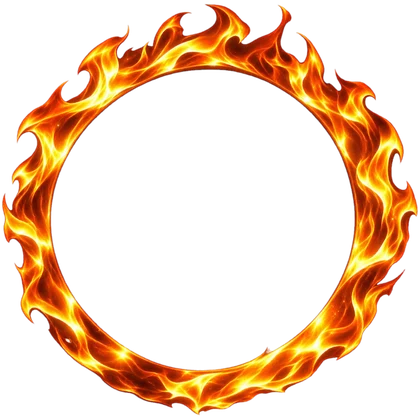
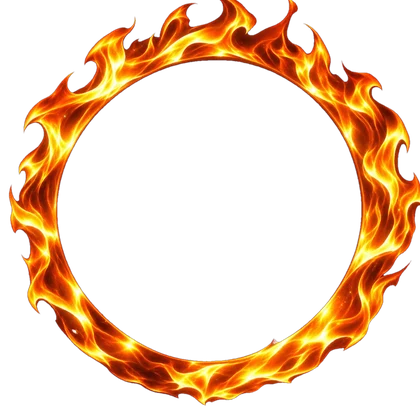
v2.60 : cadres recentrés sur la photo, écussons de division alignés
Claude-Session: https://claude.ai/code/session_01DGEPALM2CzaS6kV533j6gc

Changed region(s): [[0.0, 0.0, 1.0, 0.9905]]

diff --git a/app.css b/app.css
@@ -961,18 +961,18 @@ a.btn{text-decoration:none;display:flex;align-items:center;justify-content:cente
 .mcard.mt-legende:not(.bnr){background:linear-gradient(90deg,#0000004d,#0000 75%),url(card-legende.webp?v=1) center 35%/cover!important}.mcard.mt-legende:not(.bnr) .hfx{opacity:.35}
 
 /* cadres dessinés (images) : le trou du cadre épouse la photo */
-.fr-f1{box-shadow:none!important;animation:none!important;overflow:visible!important}.fr-f1,.fr-f1 img{border-radius:50%!important}.fr-f1::after{content:"";position:absolute;inset:-15.92%;z-index:2;pointer-events:none;background:url(fr/f1.webp?v=1) center/100% 100% no-repeat}
-.fr-f2{box-shadow:none!important;animation:none!important;overflow:visible!important}.fr-f2,.fr-f2 img{border-radius:50%!important}.fr-f2::after{content:"";position:absolute;inset:-16.23%;z-index:2;pointer-events:none;background:url(fr/f2.webp?v=1) center/100% 100% no-repeat}
-.fr-f3{box-shadow:none!important;animation:none!important;overflow:visible!important}.fr-f3,.fr-f3 img{border-radius:50%!important}.fr-f3::after{content:"";position:absolute;inset:-13.61%;z-index:2;pointer-events:none;background:url(fr/f3.webp?v=1) center/100% 100% no-repeat}
-.fr-f4{box-shadow:none!important;animation:none!important;overflow:visible!important}.fr-f4,.fr-f4 img{border-radius:50%!important}.fr-f4::after{content:"";position:absolute;inset:-15.09%;z-index:2;pointer-events:none;background:url(fr/f4.webp?v=1) center/100% 100% no-repeat}
-.fr-f5{box-shadow:none!important;animation:none!important;overflow:visible!important}.fr-f5,.fr-f5 img{border-radius:50%!important}.fr-f5::after{content:"";position:absolute;inset:-22.27%;z-index:2;pointer-events:none;background:url(fr/f5.webp?v=1) center/100% 100% no-repeat}
-.fr-f6{box-shadow:none!important;animation:none!important;overflow:visible!important}.fr-f6,.fr-f6 img{border-radius:50%!important}.fr-f6::after{content:"";position:absolute;inset:-17.1%;z-index:2;pointer-events:none;background:url(fr/f6.webp?v=1) center/100% 100% no-repeat}
-.fr-f7{box-shadow:none!important;animation:none!important;overflow:visible!important}.fr-f7,.fr-f7 img{border-radius:50%!important}.fr-f7::after{content:"";position:absolute;inset:-24.84%;z-index:2;pointer-events:none;background:url(fr/f7.webp?v=1) center/100% 100% no-repeat}
-.fr-f8{box-shadow:none!important;animation:none!important;overflow:visible!important}.fr-f8,.fr-f8 img{border-radius:50%!important}.fr-f8::after{content:"";position:absolute;inset:-19.65%;z-index:2;pointer-events:none;background:url(fr/f8.webp?v=1) center/100% 100% no-repeat}
-.fr-f9{box-shadow:none!important;animation:none!important;overflow:visible!important}.fr-f9,.fr-f9 img{border-radius:50%!important}.fr-f9::after{content:"";position:absolute;inset:-19.38%;z-index:2;pointer-events:none;background:url(fr/f9.webp?v=1) center/100% 100% no-repeat}
-.fr-f10{box-shadow:none!important;animation:none!important;overflow:visible!important}.fr-f10,.fr-f10 img{border-radius:50%!important}.fr-f10::after{content:"";position:absolute;inset:-16.45%;z-index:2;pointer-events:none;background:url(fr/f10.webp?v=1) center/100% 100% no-repeat}
-.fr-f11{box-shadow:none!important;animation:none!important;overflow:visible!important}.fr-f11,.fr-f11 img{border-radius:50%!important}.fr-f11::after{content:"";position:absolute;inset:-19.4%;z-index:2;pointer-events:none;background:url(fr/f11.webp?v=1) center/100% 100% no-repeat}
-.fr-f12{box-shadow:none!important;animation:none!important;overflow:visible!important}.fr-f12,.fr-f12 img{border-radius:50%!important}.fr-f12::after{content:"";position:absolute;inset:-22.49%;z-index:2;pointer-events:none;background:url(fr/f12.webp?v=1) center/100% 100% no-repeat}
+.fr-f1{box-shadow:none!important;animation:none!important;overflow:visible!important}.fr-f1,.fr-f1 img{border-radius:50%!important}.fr-f1::after{content:"";position:absolute;inset:-21.4%;z-index:2;pointer-events:none;background:url(fr/f1.webp?v=2) center/100% 100% no-repeat}
+.fr-f2{box-shadow:none!important;animation:none!important;overflow:visible!important}.fr-f2,.fr-f2 img{border-radius:50%!important}.fr-f2::after{content:"";position:absolute;inset:-21.4%;z-index:2;pointer-events:none;background:url(fr/f2.webp?v=2) center/100% 100% no-repeat}
+.fr-f3{box-shadow:none!important;animation:none!important;overflow:visible!important}.fr-f3,.fr-f3 img{border-radius:50%!important}.fr-f3::after{content:"";position:absolute;inset:-19.66%;z-index:2;pointer-events:none;background:url(fr/f3.webp?v=2) center/100% 100% no-repeat}
+.fr-f4{box-shadow:none!important;animation:none!important;overflow:visible!important}.fr-f4,.fr-f4 img{border-radius:50%!important}.fr-f4::after{content:"";position:absolute;inset:-20.52%;z-index:2;pointer-events:none;background:url(fr/f4.webp?v=2) center/100% 100% no-repeat}
+.fr-f5{box-shadow:none!important;animation:none!important;overflow:visible!important}.fr-f5,.fr-f5 img{border-radius:50%!important}.fr-f5::after{content:"";position:absolute;inset:-25.15%;z-index:2;pointer-events:none;background:url(fr/f5.webp?v=2) center/100% 100% no-repeat}
+.fr-f6{box-shadow:none!important;animation:none!important;overflow:visible!important}.fr-f6,.fr-f6 img{border-radius:50%!important}.fr-f6::after{content:"";position:absolute;inset:-22.91%;z-index:2;pointer-events:none;background:url(fr/f6.webp?v=2) center/100% 100% no-repeat}
+.fr-f7{box-shadow:none!important;animation:none!important;overflow:visible!important}.fr-f7,.fr-f7 img{border-radius:50%!important}.fr-f7::after{content:"";position:absolute;inset:-22.3%;z-index:2;pointer-events:none;background:url(fr/f7.webp?v=2) center/100% 100% no-repeat}
+.fr-f8{box-shadow:none!important;animation:none!important;overflow:visible!important}.fr-f8,.fr-f8 img{border-radius:50%!important}.fr-f8::after{content:"";position:absolute;inset:-23.86%;z-index:2;pointer-events:none;background:url(fr/f8.webp?v=2) center/100% 100% no-repeat}
+.fr-f9{box-shadow:none!important;animation:none!important;overflow:visible!important}.fr-f9,.fr-f9 img{border-radius:50%!important}.fr-f9::after{content:"";position:absolute;inset:-21.7%;z-index:2;pointer-events:none;background:url(fr/f9.webp?v=2) center/100% 100% no-repeat}
+.fr-f10{box-shadow:none!important;animation:none!important;overflow:visible!important}.fr-f10,.fr-f10 img{border-radius:50%!important}.fr-f10::after{content:"";position:absolute;inset:-22.0%;z-index:2;pointer-events:none;background:url(fr/f10.webp?v=2) center/100% 100% no-repeat}
+.fr-f11{box-shadow:none!important;animation:none!important;overflow:visible!important}.fr-f11,.fr-f11 img{border-radius:50%!important}.fr-f11::after{content:"";position:absolute;inset:-22.0%;z-index:2;pointer-events:none;background:url(fr/f11.webp?v=2) center/100% 100% no-repeat}
+.fr-f12{box-shadow:none!important;animation:none!important;overflow:visible!important}.fr-f12,.fr-f12 img{border-radius:50%!important}.fr-f12::after{content:"";position:absolute;inset:-22.91%;z-index:2;pointer-events:none;background:url(fr/f12.webp?v=2) center/100% 100% no-repeat}
 
 /* divisions de guilde */
 .gdis{height:1.35em;width:auto;vertical-align:-.35em}
@@ -989,3 +989,6 @@ a.btn{text-decoration:none;display:flex;align-items:center;justify-content:cente
 /* chat : place pour les cadres autour des photos (sinon coupés par le bord de la liste) */
 .chbox{padding:10px 14px 10px 14px}
 .chm{gap:12px}.chm>span{display:inline-block;padding:9px 2px 4px 4px;flex:none}
+
+.gldl .gdi{width:46px;height:46px;max-width:none;object-fit:contain}
+.gldl div{justify-content:flex-start}

diff --git a/index.html b/index.html
@@ -18,7 +18,7 @@
 <link rel="preconnect" href="https://fonts.gstatic.com" crossorigin>
 <link rel="preload" as="image" href="logo-tribune.png?v=2">
 <link href="https://fonts.googleapis.com/css2?family=Barlow+Condensed:ital,wght@0,600;0,700;0,800;1,800&family=Barlow:wght@400;500;600;700&display=swap" rel="stylesheet" media="print" onload="this.media='all'">
-<link rel="stylesheet" href="app.css?v=2.59">
+<link rel="stylesheet" href="app.css?v=2.60">
 </head>
 <body data-sp="foot">
 <div id="splash"><img src="logo-tribune.png?v=2" alt="Tribune"><div class="spbar"><i></i></div><small id="spt">Chargement des matchs…</small></div>
@@ -91,7 +91,7 @@
 <div class="toasts" id="toasts" aria-live="polite"></div>
 <div id="rot" aria-live="polite"><svg viewBox="0 0 24 24" fill="none" stroke="currentColor" stroke-width="1.8" stroke-linecap="round"><rect x="6.5" y="2.5" width="11" height="19" rx="2.5"/><path d="M10.5 18.5h3"/></svg><b>Tourne ton téléphone</b><small>Tribune se joue à la verticale.</small></div>
 
-<script src="engine.js?v=2.59"></script>
-<script src="app.js?v=2.59"></script>
+<script src="engine.js?v=2.60"></script>
+<script src="app.js?v=2.60"></script>
 </body>
 </html>

diff --git a/sw.js b/sw.js
@@ -1,5 +1,5 @@
 // Service worker : réseau d'abord (toujours revérifié auprès du serveur), cache en secours hors ligne.
-const C="dap-v107",IMG="dap-img-1",SHELL=["./","index.html","manifest.webmanifest","icon-192.png","icon-180.png","icon-512.png","logo-tribune.png","engine.js","app.js","app.css"];
+const C="dap-v108",IMG="dap-img-1",SHELL=["./","index.html","manifest.webmanifest","icon-192.png","icon-180.png","icon-512.png","logo-tribune.png","engine.js","app.js","app.css"];
 self.addEventListener("install",e=>{e.waitUntil(caches.open(C).then(c=>c.addAll(SHELL)).then(()=>self.skipWaiting()))});
 self.addEventListener("activate",e=>{e.waitUntil(caches.keys().then(k=>Promise.all(k.filter(x=>x!==C&&x!==IMG).map(x=>caches.delete(x)))).then(()=>self.clients.claim()))});
 // logos des équipes, drapeaux et photos de profil : gardés sur le téléphone (plus rapide, moins de données), 500 au plus

diff --git a/app.js b/app.js
@@ -2678,7 +2678,7 @@ async function transferIn(){const code=($("#x-code").value||"").trim(),err=$("#x
 /* ---------- version ----------
    Numéro affiché à côté du titre. version.txt (même numéro) permet à une app restée ouverte
    de voir qu'une mise à jour est sortie et de proposer de recharger. */
-const VERSION="2.59";
+const VERSION="2.60";
 function showVersion(){const v=$("#ver");if(!v)return;v.textContent="v"+VERSION;let last="";try{last=localStorage.getItem("dap.ver")||""}catch(e){}
   if(last&&last!==VERSION){v.classList.add("new");toast(`Mise à jour installée : version ${VERSION}`,"win");setTimeout(()=>v.classList.remove("new"),6000)}
   try{localStorage.setItem("dap.ver",VERSION)}catch(e){}}
